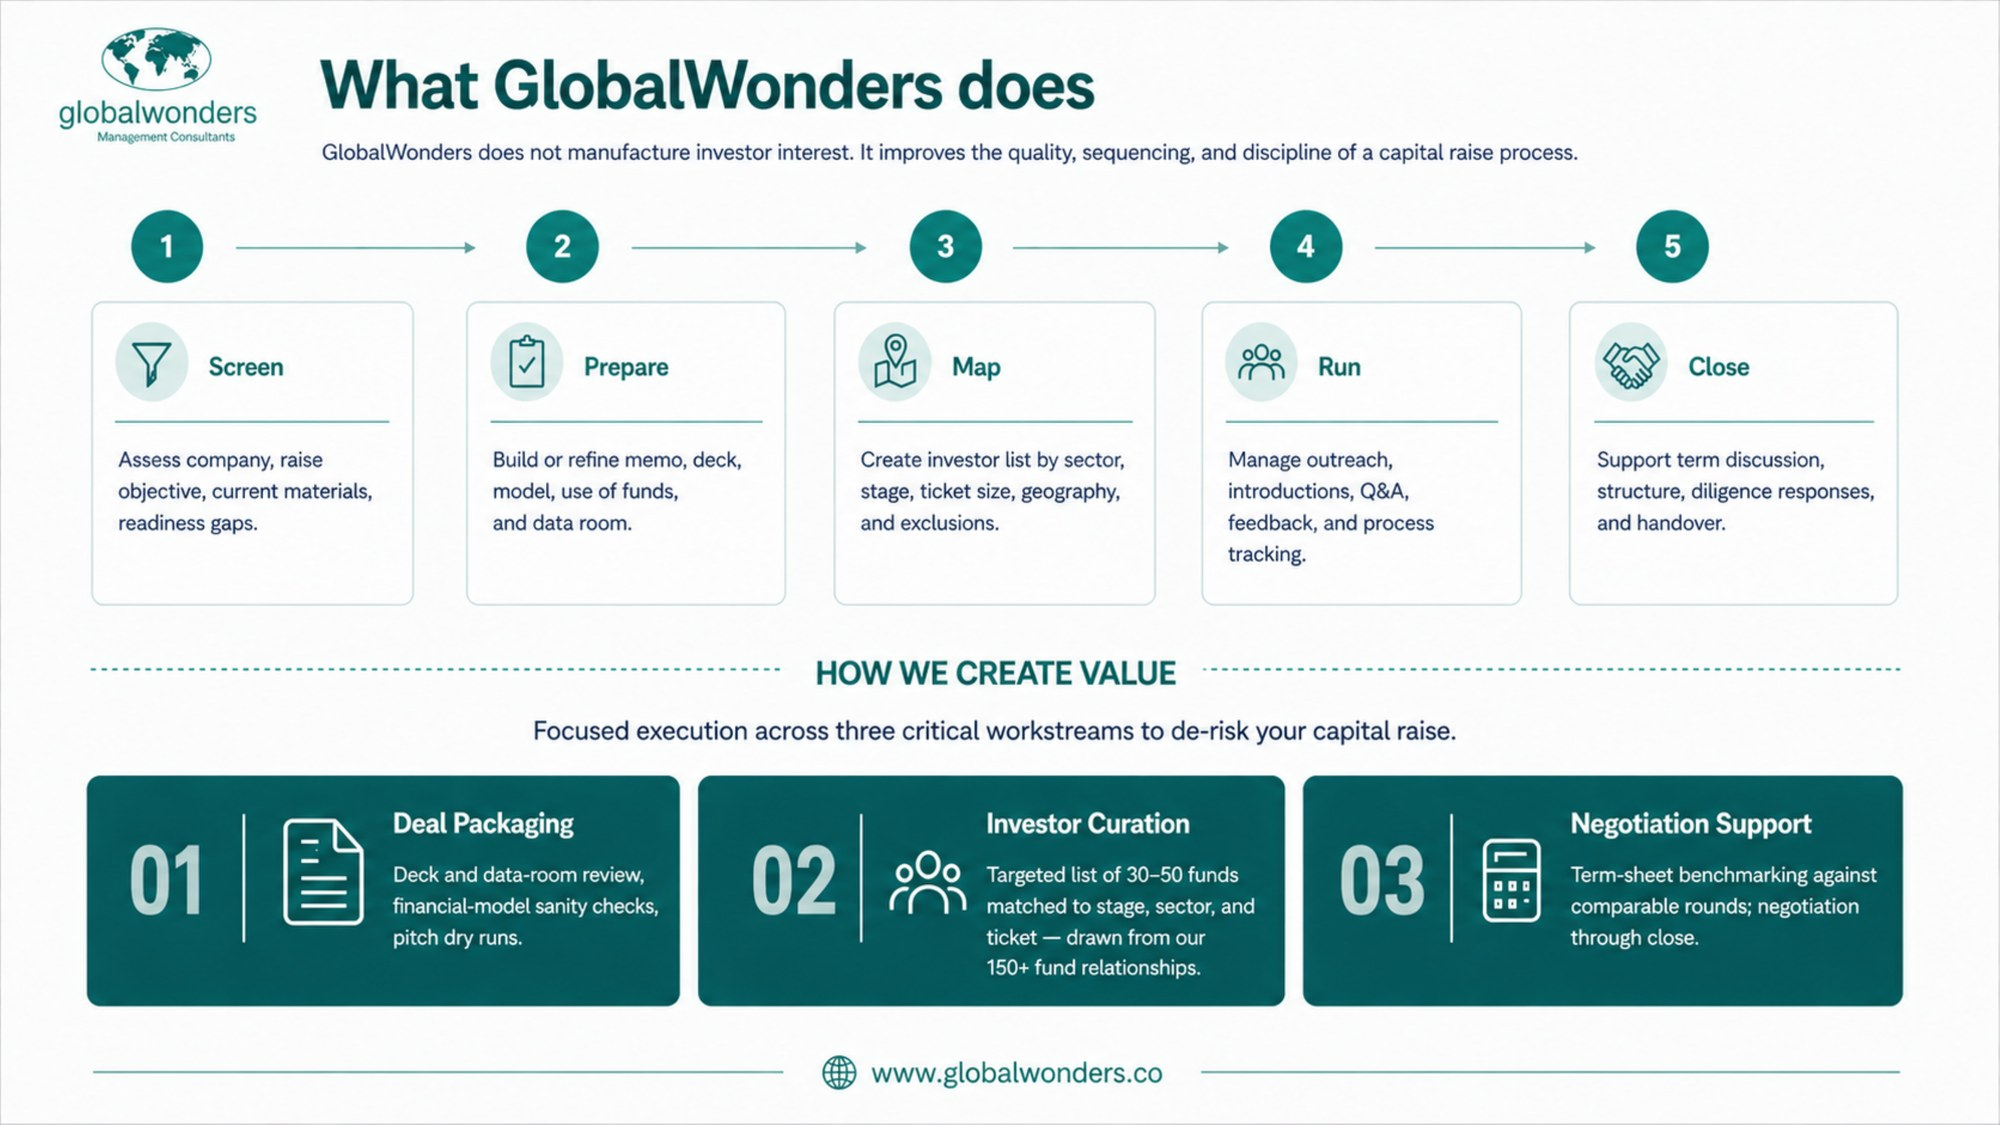
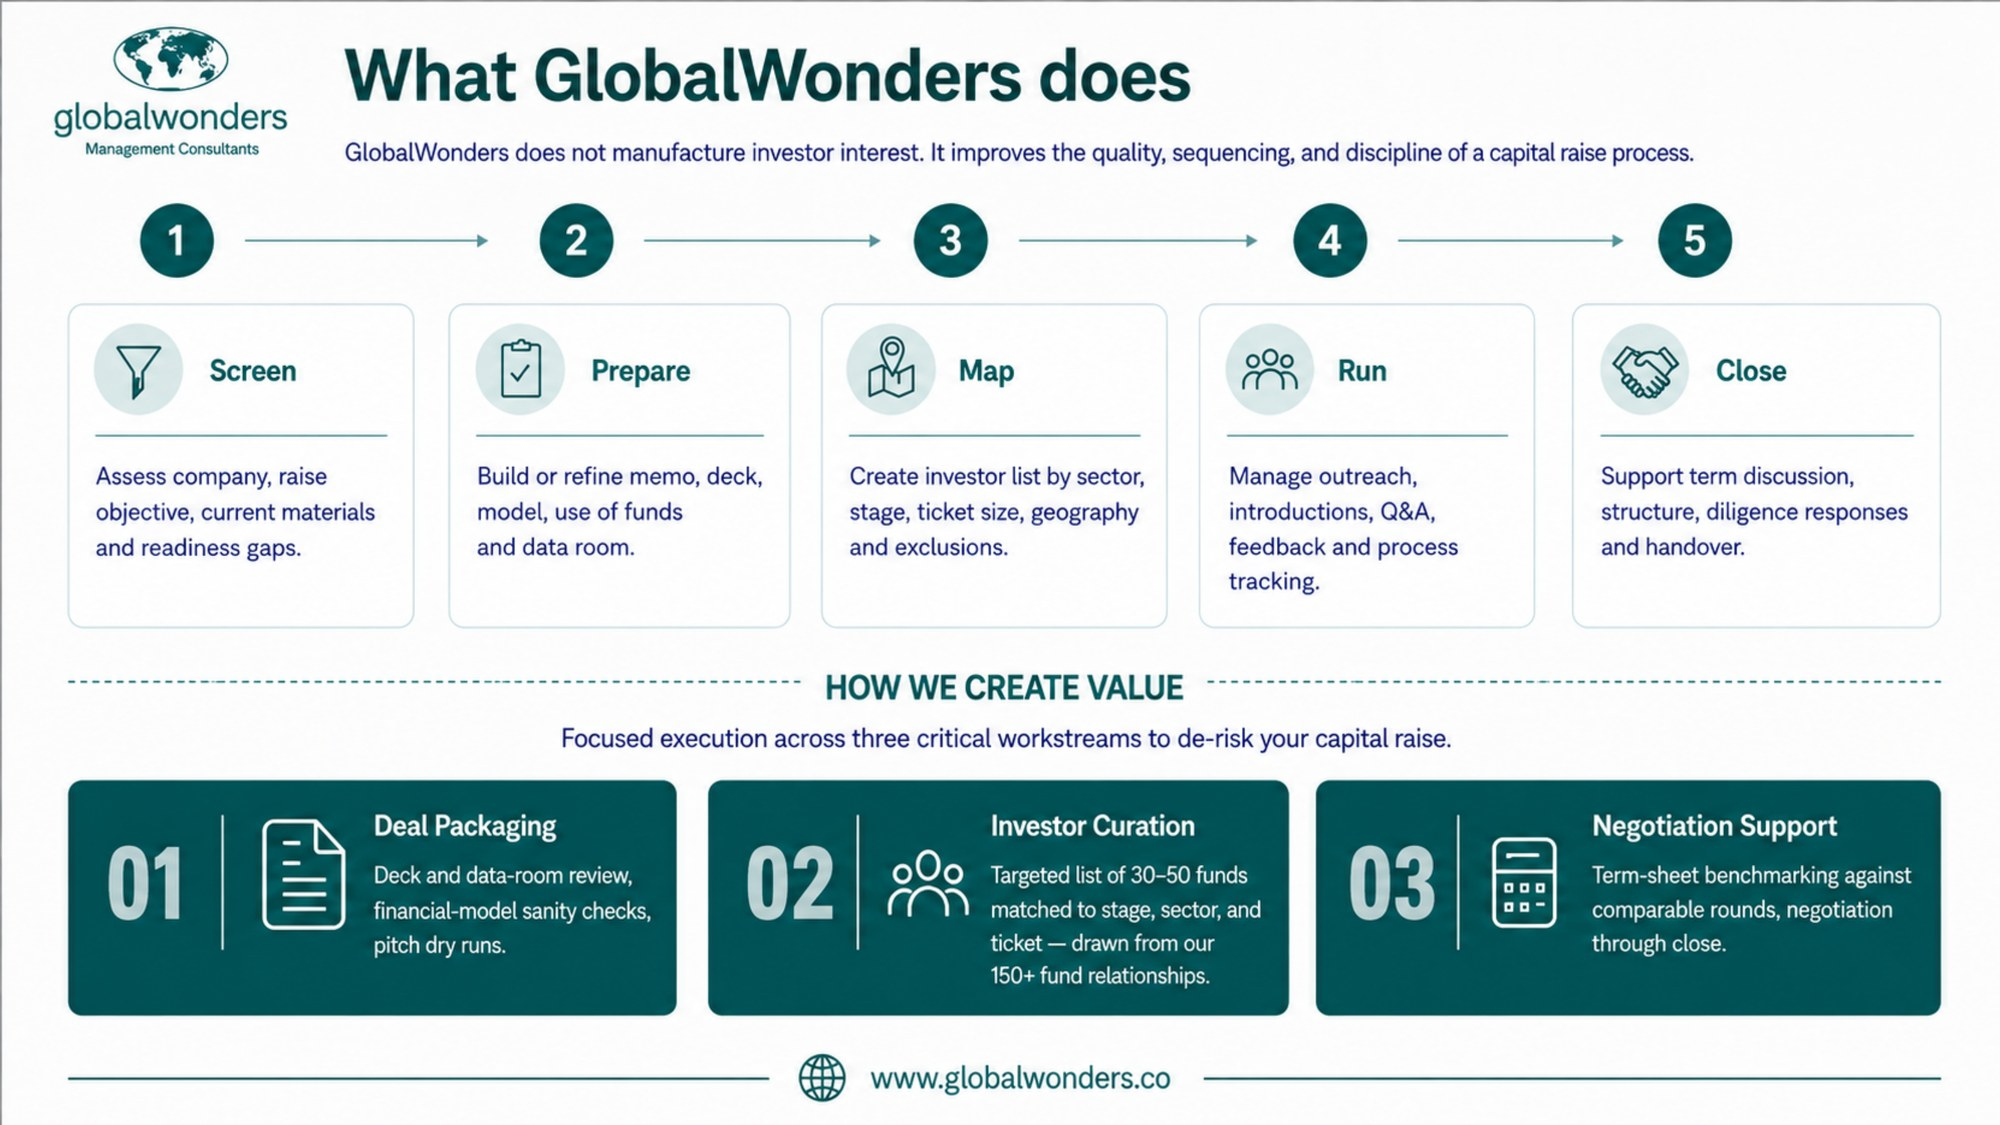
Process steps: match deck v4.2 punctuation; slide 5 from deck v4.2
Claude-Session: https://claude.ai/code/session_01ERWh94YeMmFRZRf51xb12R

diff --git a/components/ProcessFlow.jsx b/components/ProcessFlow.jsx
@@ -3,11 +3,11 @@ import DeckFigure from './DeckFigure';
 
 export default function ProcessFlow() {
   const steps = [
-    { num: 1, title: "Screen", desc: "Assess company, raise objective, current materials, readiness gaps" },
-    { num: 2, title: "Prepare", desc: "Build or refine memo, deck, model, use of funds, and data room" },
-    { num: 3, title: "Map", desc: "Create investor list by sector, stage, ticket size, geography, and exclusions" },
-    { num: 4, title: "Run", desc: "Manage outreach, introductions, Q&A, feedback, and process tracking" },
-    { num: 5, title: "Close", desc: "Support term discussion, structure, diligence responses, and handover" }
+    { num: 1, title: "Screen", desc: "Assess company, raise objective, current materials and readiness gaps" },
+    { num: 2, title: "Prepare", desc: "Build or refine memo, deck, model, use of funds and data room" },
+    { num: 3, title: "Map", desc: "Create investor list by sector, stage, ticket size, geography and exclusions" },
+    { num: 4, title: "Run", desc: "Manage outreach, introductions, Q&A, feedback and process tracking" },
+    { num: 5, title: "Close", desc: "Support term discussion, structure, diligence responses and handover" }
   ];
 
   return (
